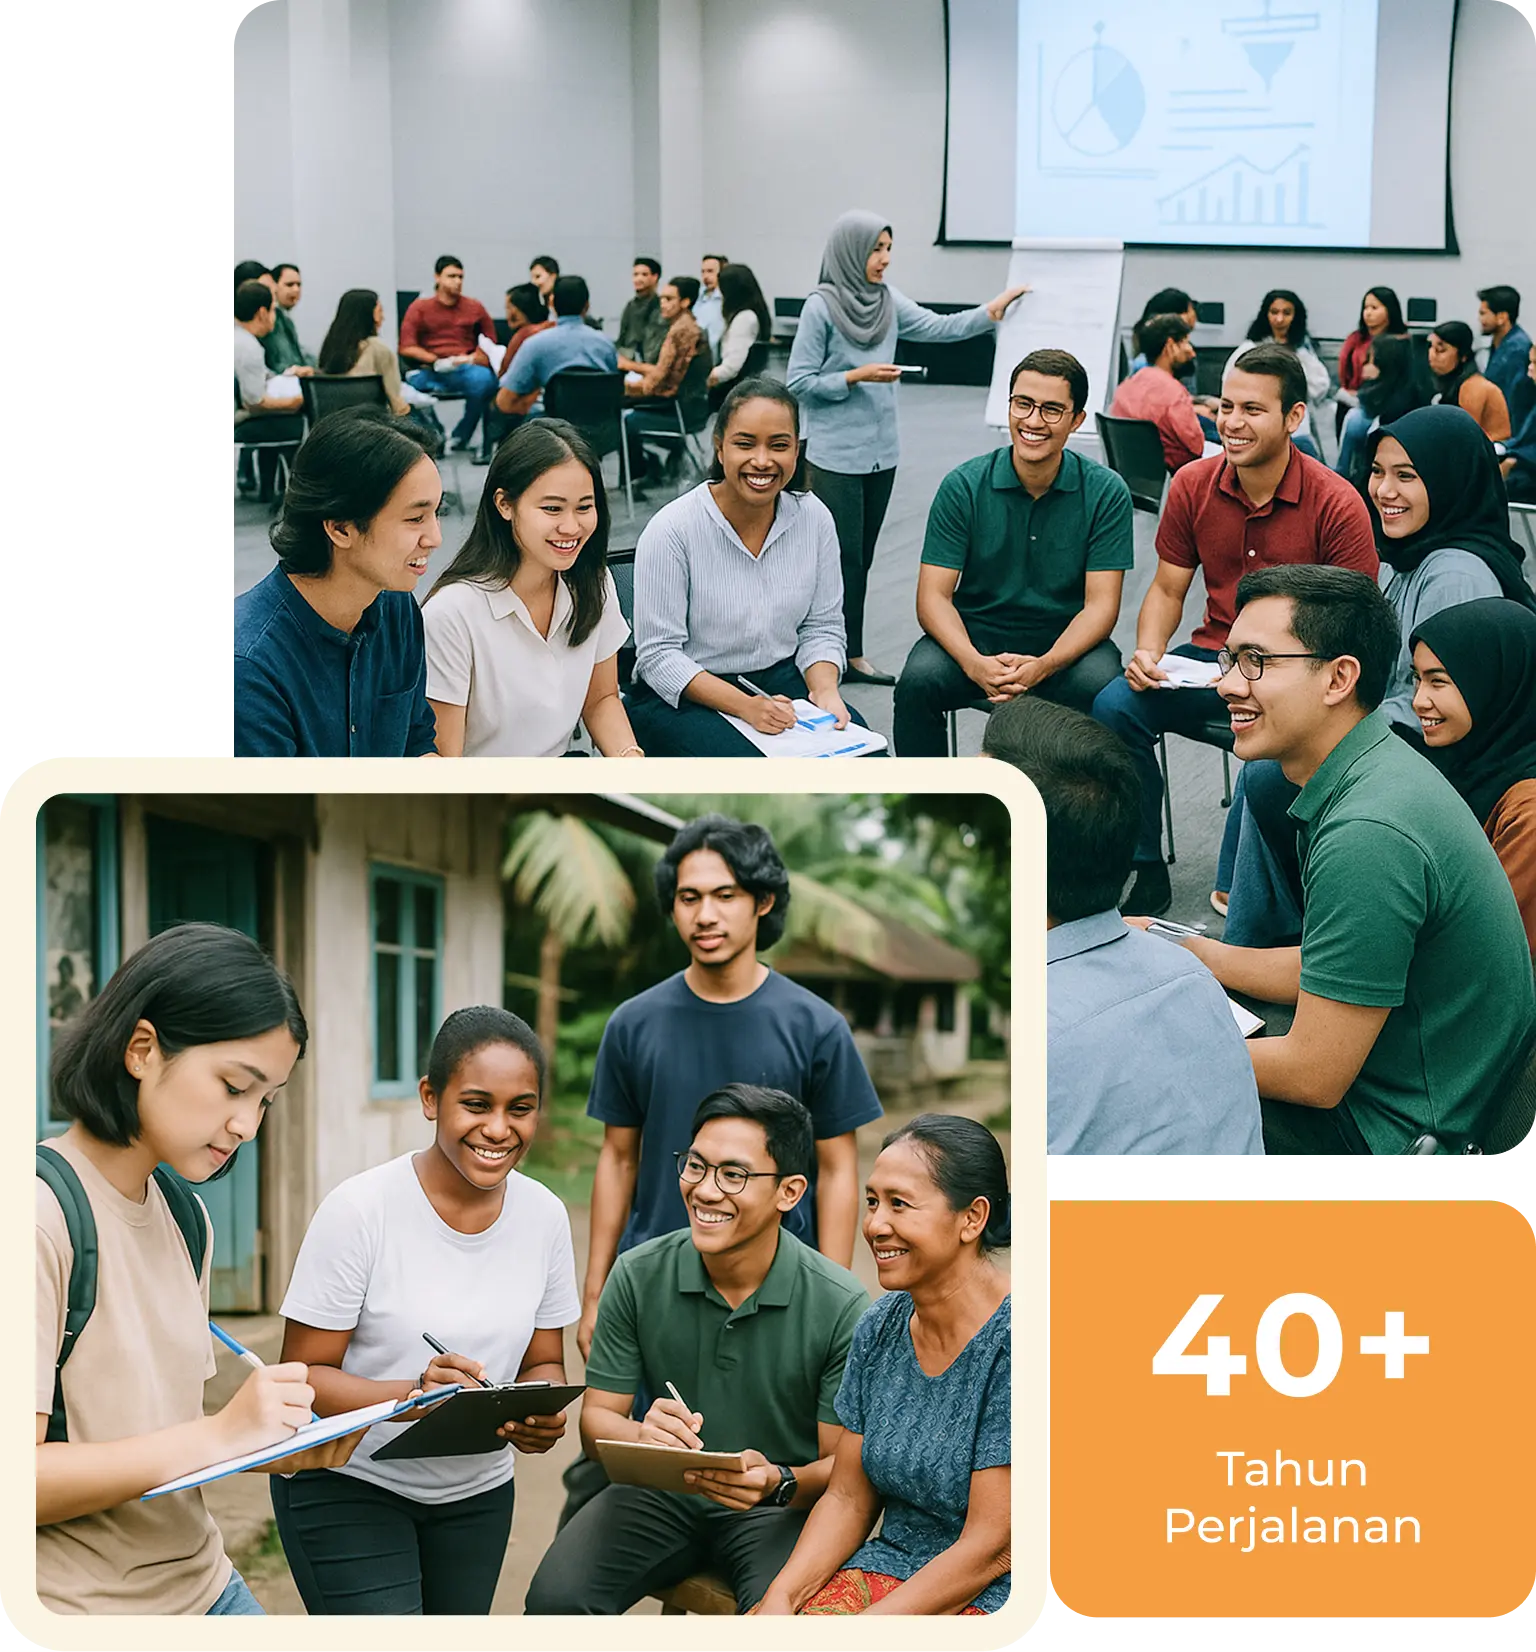
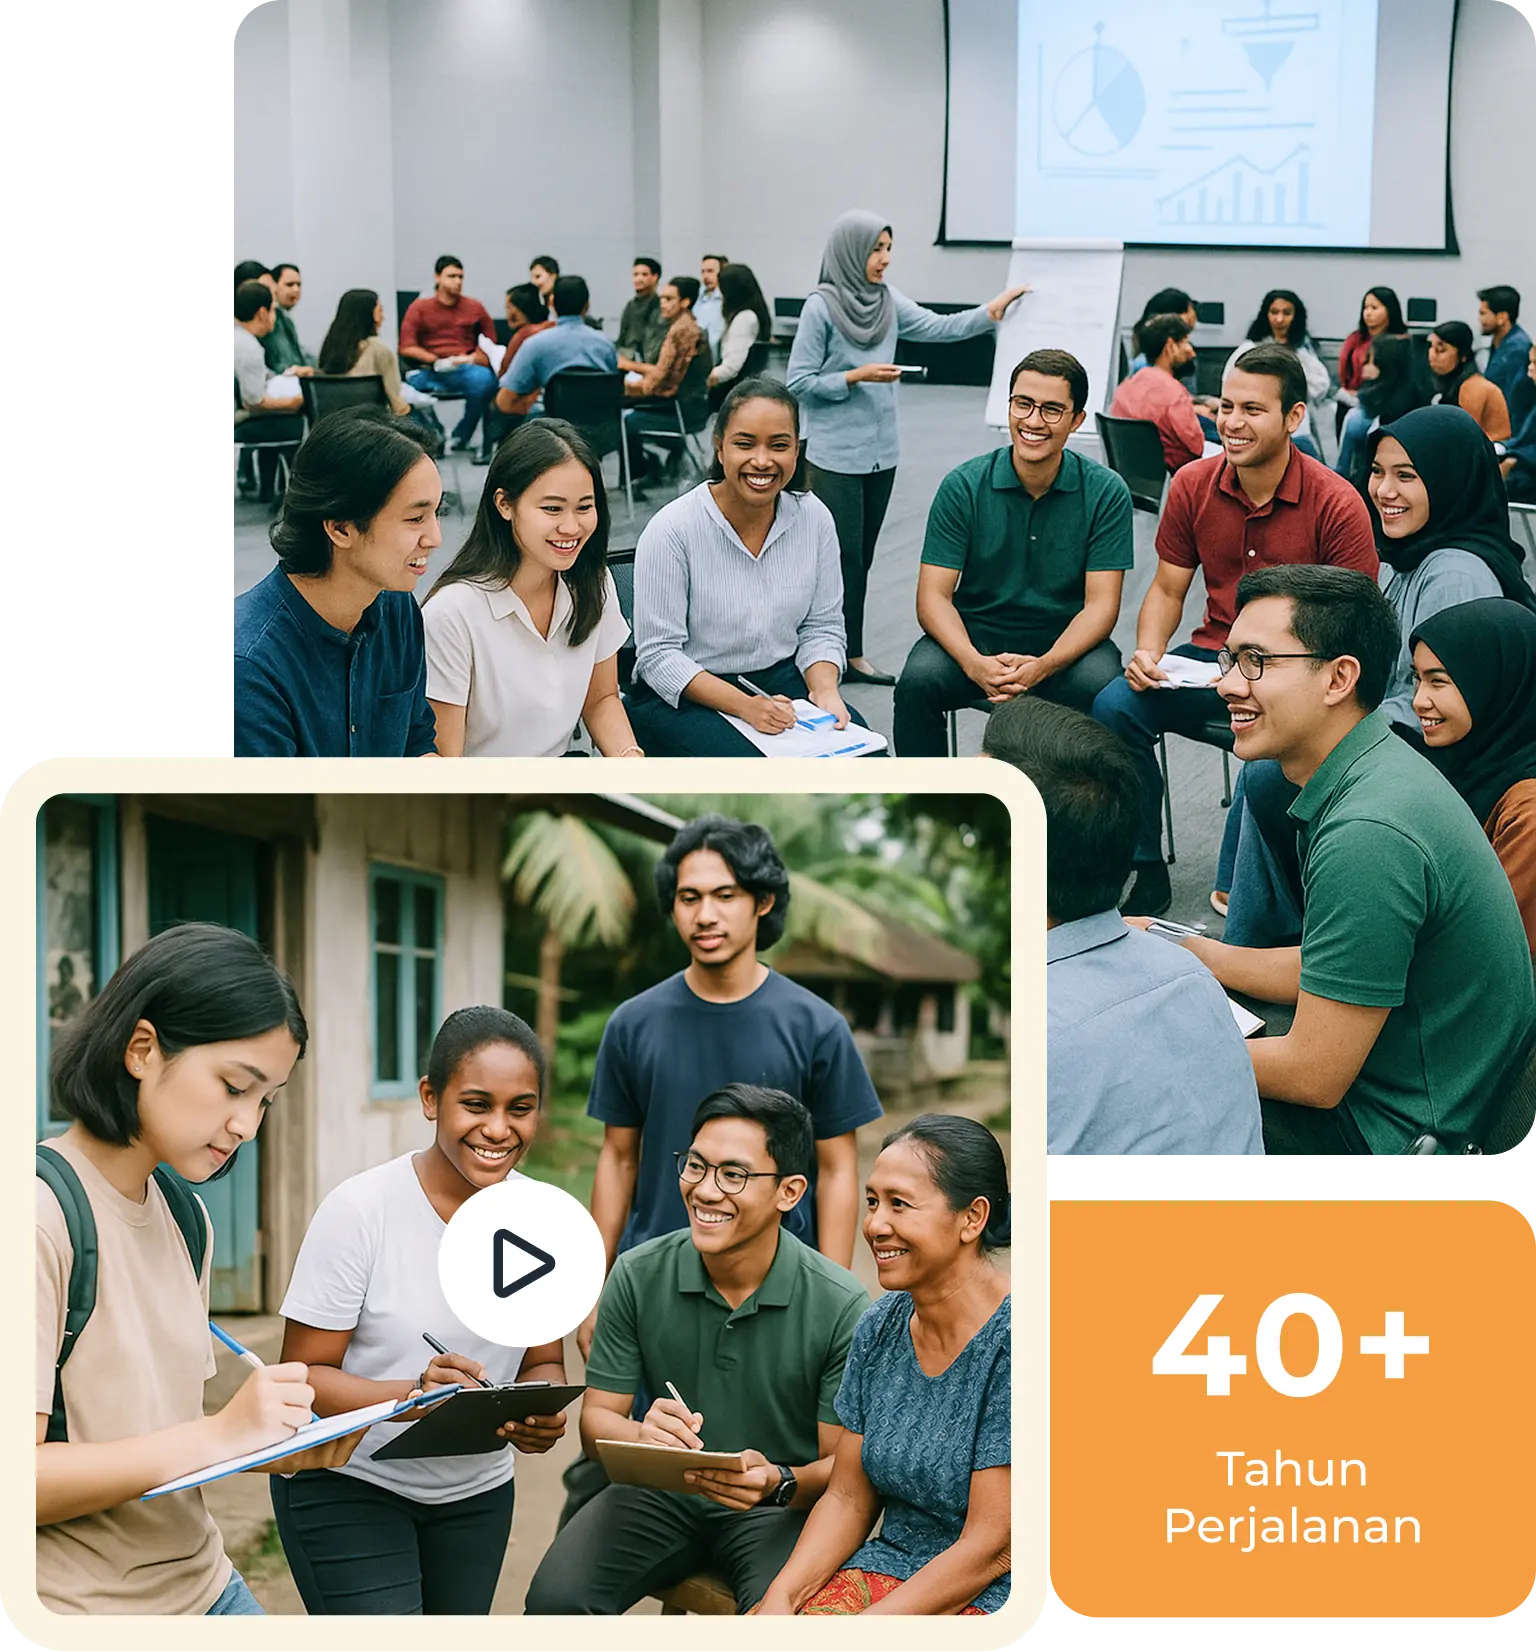
feat: adjustment feature coloring, layouting timeline, accessbility, video player

Changed region(s): [[0.2812, 0.71, 0.4062, 0.8335]]

diff --git a/src/app/[locale]/(routes)/about/profile-infid/_components/history-infid-section.tsx b/src/app/[locale]/(routes)/about/profile-infid/_components/history-infid-section.tsx
@@ -4,7 +4,6 @@ import { useState } from 'react';
 
 import Image from 'next/image';
 
-import SectionBadge from '@/components/common/section-badge';
 import { SectionHeader } from '@/components/common/section-header';
 import { Dialog, DialogContent, DialogHeader, DialogTitle } from '@/components/ui/dialog';
 import { cn } from '@/lib/utils';
@@ -19,7 +18,7 @@ export interface TimelineItem {
     year: string;
     title: string;
     description: string;
-    image?: string;
+    image?: string[];
     customClass?: string;
     active: boolean;
     isFounder?: boolean;
@@ -42,7 +41,7 @@ const timelineData: TimelineItem[] = [
         title: '',
         description:
             '<p><strong>Kerja keras INFID bersama berbagai elemen masyarakat dalam mendorong pengesahan Undang-Undang Tindak Pidana Kekerasan Seksual (UU TPKS) berujung pada pengesahan UU tersebut tahun 2022. INFID memproduksi lima dokumen penguat advokasi, yaitu satu kertas kebijakan, dua briefing paper, satu kertas posisi, dan satu rekomendasi kebijakan. Upaya INFID dalam tidak berhenti sampai pengesahan, advokasi terus berlanjut untuk memastikan implementasi UU TPKS sesuai dengan mandat yang tertuang dalam UU.</strong><br><br>Selain itu, dalam G20 Indonesia 2022, INFID ditunjuk sebagai Chair of Civil 20 (C20) untuk bergerak bersama ratusan civil society organisations (CSOs) dari seluruh dunia untuk mendesak pemimpin negara G20 menciptakan solusi atas tujuh isu; tujuan pembangunan berkelanjutan &amp; kemanusiaan; akses vaksin &amp; kesehatan global; kesetaraan gender &amp; disabilitas; perpajakan &amp; keuangan berkelanjutan; lingkungan, lingkungan, keadilan iklim, dan transisi energi; edukasi, digitalisasi, dan civic space; antikorupsi.<br><br>INFID akan terus bergerak untuk mewujudkan pembangunan yang berkeadilan di Indonesia dan mengambil peran dalam mendorong diskursus-diskursus perdamaian di tingkat global.</p>',
-        image: '/images/history-2019.webp',
+        image: ['/images/history-2019-1.webp', '/images/history-2019-2.webp'],
         customClass: 'w-[800px]',
         active: true
     },
@@ -52,7 +51,7 @@ const timelineData: TimelineItem[] = [
         title: '',
         description:
             '<p><strong>Pada 2015, agenda MDGs dilanjutkan menjadi agenda SDGs (Sustainable Development Goals) untuk periode 2015&ndash;2030. SDGs memiliki 17 Tujuan dan 169 Indikator yang harus dicapai pada 2030. Seperti MDGs, INFID juga turut berperan aktif untuk mendorong pencapaian tujuan dan indikator SDGs, di antaranya melalui penyusunan kerangka regulasi Perpres SDGs No. 59 Tahun 2017 dan penyusunan kerangka kelembagaan, yaitu tim pelaksana dan pokja nasional.</strong><br><br>Selain itu, INFID juga mendampingi 10 Kabupaten Kota dalam pelaksanaan SDGs di tingkat daerah dengan tujuan memberikan praktik baik implementasi SDGs yang akan memberi inspirasi bagi daerah lainnya untuk turut melaksanakan pencapaian SDGs di tahun 2030.</p>',
-        image: '/images/history-2016.webp',
+        image: ['/images/history-2016.webp'],
         customClass: 'w-[336px]',
         active: false
     },
@@ -62,7 +61,7 @@ const timelineData: TimelineItem[] = [
         title: '',
         description:
             '<p><strong>INFID tercatat sebagai aktor utama dalam memperbaiki relasi yang lebih setara antara donor dan penerima. Pembubaran forum donor untuk Indonesia Consultative Group on Indonesia (CGI) tahun 2007 merupakan perubahan besar bagi Indonesia dan lembaga donor. Lembaga donor juga mengakui bahwa mereka selalu dipantau dan diawasi oleh INFID untuk membuat mereka lebih terbuka, transparan, dan jujur dengan peranan mereka.</strong><br><br>INFID secara konsisten menyesuaikan agendanya dengan perubahan situasi, mulai dari reposisi peran LSM/OMS, hingga isu-isu seperti pembiayaan untuk pembangunan, kebijakan perdagangan yang adil, Tujuan Pembangunan Milenium (Millennium Development Goals/MDGs), dan Tujuan Pembangunan Berkelanjutan (Sustainable Development Goals/SDGs).</p>',
-        image: '/images/history-2005.webp',
+        image: ['/images/history-2005-1.png', '/images/history-2005-2.png'],
         customClass: 'w-[800px]',
         active: false
     },
@@ -72,7 +71,7 @@ const timelineData: TimelineItem[] = [
         title: '',
         description:
             '<p><strong>Konferensi tematik dua tahunan INFID (1998&ndash;2004) telah mengubah kebijakan dan praktik lembaga donor dan lembaga keuangan internasional (Bank Dunia). Salah satu konferensi mengangkat tema mengenai data kebocoran 30 persen dalam dana utang luar negeri dari pinjaman Bank Dunia untuk berbagai proyek di Indonesia.</strong><br><br>Salah satu advokasi lantang INFID terkait utang dan krisis 1998 bertajuk &ldquo;Debt Kills Indonesian Babies&rdquo;. Advokasi ini berhasil menciptakan riak-riak gerakan di tengah masyarakat setelah ketajaman INFID dalam memberikan edukasi publik mengenai bagaimana setiap individu rakyat Indonesia berpotensi menanggung beban utang Pemerintah.<br><br>Akibat sikap penentangan yang kuat dari INGI/INFID terhadap pemerintah Indonesia, selama bertahun-tahun INGI/INFID tidak dapat menyelenggarakan pertemuan di dalam negeri. Pada 1999, INFID mengadakan konferensi pertamanya di Bali, yang menandai perubahan penting dalam struktur dan tata kelola organisasi.</p>',
-        image: '/images/history-1998.webp',
+        image: ['/images/history-1998-1.png', '/images/history-1998-2.png'],
         customClass: 'w-[800px]',
 
         active: false
@@ -83,8 +82,7 @@ const timelineData: TimelineItem[] = [
         title: '',
         description:
             '<p><strong>INFID telah berperan penting dalam mewujudkan proses demokratisasi di Indonesia sejak Indonesia tunduk pada sistem otoriter di bawah rezim Orde Baru.&nbsp;</strong><br><strong>Para reformis seperti Abdurrahman Wahid (Gus Dur), Adnan Buyung Nasution, Toeti Heraty Nurhadi, dan Fauzi Abdullah, bersama sejumlah Lembaga Swadaya Masyarakat (LSM), bersatu dan bergabung. Mereka mendirikan International NGO Forum on Indonesia (INGI) pada 1985 dan bekerja erat dengan organisasi masyarakat sipil dari negara-negara donor Indonesia.</strong><br><br>INGI memiliki sekretariat pertamanya di Den Haag, Belanda, dan di Jakarta, Indonesia. INGI dibentuk sebagai wadah baru untuk advokasi strategis yang bertujuan mendorong pemerintah Indonesia agar memanfaatkan bantuan luar negeri untuk pembangunan yang adil dan berkelanjutan, dengan menghormati sepenuhnya hak asasi manusia.</p>',
-        image: '/images/history-1985.webp',
-        customClass: 'w-[800px]',
+        image: ['/images/history-1985-1.png', '/images/history-1985-2.png'],
         active: false
     },
     {
@@ -168,15 +166,7 @@ export const InfidTimeline = () => {
     };
 
     return (
-        <div className='bg-secondary-100 relative py-24' id='history-infid'>
-            <Image
-                src='/images/decoration-about.png'
-                alt='images'
-                width={150}
-                height={150}
-                className='absolute right-10 bottom-50 hidden -rotate-95 xl:block'
-            />
-
+        <div className='from-secondary-100 min-h-screen bg-linear-to-b to-transparent pt-24' id='history-infid'>
             <div className='container'>
                 {/* Header */}
                 <SectionHeader
@@ -233,20 +223,30 @@ export const InfidTimeline = () => {
 
                 {contentType === 'timeline' && (
                     // Timeline Detail
-                    <div className='max-w-full xl:max-w-3xl'>
+                    <div className='max-w-full xl:max-w-4xl'>
                         <h2 className='text-primary-500 mb-6 text-2xl font-bold'>
                             {selectedTimeline.year} {selectedTimeline.title}
                         </h2>
-                        <div className='prose' dangerouslySetInnerHTML={{ __html: selectedTimeline.description }} />
-                        {selectedTimeline.image && (
-                            <Image
-                                src={selectedTimeline.image}
-                                alt={selectedTimeline.title}
-                                width={500}
-                                height={500}
-                                className={cn('mt-12', selectedTimeline.customClass)}
+                        <div className='flex flex-col items-start gap-8 md:flex-row'>
+                            {selectedTimeline.image && (
+                                <div className='flex w-full flex-col gap-2 md:w-1/3'>
+                                    {selectedTimeline.image.map((image, index) => (
+                                        <Image
+                                            key={index}
+                                            src={image}
+                                            alt={selectedTimeline.title}
+                                            width={500}
+                                            height={500}
+                                            className={cn('max-h-90 w-full object-cover', selectedTimeline.customClass)}
+                                        />
+                                    ))}
+                                </div>
+                            )}
+                            <div
+                                className='prose w-full md:w-3/4'
+                                dangerouslySetInnerHTML={{ __html: selectedTimeline.description }}
                             />
-                        )}
+                        </div>
                     </div>
                 )}
 
@@ -294,6 +294,14 @@ export const InfidTimeline = () => {
                     </DialogContent>
                 </Dialog>
             </div>
+            <div
+                className='from-secondary-100 relative mt-12 h-115.5 bg-linear-to-t to-transparent'
+                style={{
+                    backgroundImage: `url('/images/bg-garden.webp'), linear-gradient(180deg, #FAF5E3 0%, rgba(250, 245, 227, 0) 100%)`,
+                    backgroundBlendMode: 'overlay',
+                    backgroundSize: 'cover',
+                    backgroundPosition: 'center'
+                }}></div>
         </div>
     );
 };

diff --git a/src/app/[locale]/(routes)/about/profile-infid/_components/global-recognition-section.tsx b/src/app/[locale]/(routes)/about/profile-infid/_components/global-recognition-section.tsx
@@ -8,21 +8,21 @@ export default function GlobalRecognitionSection() {
     const accordionData = [
         {
             id: '01',
-            title: 'Terakreditasi oleh Perserikatan Bangsa-Bangsa (PBB) dengan UN Special Consultative Status with the Economic and Social Council (ECOSOC).',
+            title: 'Terakreditasi oleh Perserikatan Bangsa-Bangsa (PBB) dengan UN Special Consultative Status with the Economic and Social Council (ECOSOC)',
             content:
                 'Menyandang status ini sejak 2004, INFID memiliki akses untuk terlibat dalam berbagai konferensi internasional yang diselenggarakan oleh PBB, seperti High Level Political Forum untuk membahas agenda pembangunan berkelanjutan yang diadakan setiap bulan Juli, serta Sidang Umum setiap bulan September.',
             defaultOpen: true
         },
         {
             id: '02',
-            title: 'Anggota aktif sejumlah forum organisasi masyarakat sipil global.',
+            title: 'Anggota aktif sejumlah forum organisasi masyarakat sipil global',
             content:
                 'INFID merupakan anggota aktif di FORUS sejak 2009, sebuah jaringan NGO global yang mewadahi forum-forum NGO nasional di seluruh dunia yang berbasis di Paris, Prancis. INFID juga bagian dari Beyond 2015, TAP Network, dan SDSN, yaitu inisiatif-inisiatif global yang bertujuan untuk mendorong pelaksanaan dan pencapaian Sustainable Development Goals (SDGs) pada 2022.',
             defaultOpen: false
         },
         {
             id: '03',
-            title: 'Memimpin berbagai advokasi global.',
+            title: 'Memimpin berbagai advokasi global',
             content:
                 'INFID berperan dalam mengawal pembangunan di daerah-daerah di Indonesia dengan memberikan masukan-masukan strategis, serta berkolaborasi bersama organisasi masyarakat sipil dunia untuk mengangkat agenda pembangunan berkeadilan ke tingkat global. INFID ditunjuk sebagai Envoy dan Steering Committee dalam Open Government Partnership (OGP Global) dalam agenda membangun pemerintahan terbuka. Pada 2022, INFID dipercaya menjadi Chair Civil20 (C20) dalam G20 Indonesia dan membangun solidaritas bersama ratusan civil society organisations (CSOs) global di forum G20.',
             defaultOpen: false

diff --git a/src/app/[locale]/(routes)/news-from-us/data/data.tsx b/src/app/[locale]/(routes)/news-from-us/data/data.tsx
@@ -25,7 +25,7 @@ export interface FeaturedNewsItem {
     comments: number;
 }
 
-export const categoriesNews = ['Semua', 'Kegiatan', 'Cerita Perubahan', 'Siaran Pers'];
+export const categoriesNews = ['Semua', 'Kegiatan', 'Bergerak, Berdampak!', 'Siaran Pers', 'Laporan Tahunan'];
 
 export const authorsNews = [
     { label: 'Samantha', value: 'samantha' },
@@ -47,7 +47,7 @@ export const articles: Article[] = [
     {
         id: 2,
         title: 'Kisah Sukses Petani Milenial di Era Smart Farming',
-        category: 'Cerita Perubahan',
+        category: 'Bergerak, Berdampak!',
         date: '2023-08-20',
         author: 'Joko',
         image: '/images/background-about-us.webp'
@@ -71,7 +71,7 @@ export const articles: Article[] = [
     {
         id: 5,
         title: 'Dari Desa ke Global: Perjalanan UMKM Kerajinan Tangan',
-        category: 'Cerita Perubahan',
+        category: 'Bergerak, Berdampak!',
         date: '2022-06-18',
         author: 'Kevin',
         image: '/images/background-about-us.webp'
@@ -95,7 +95,7 @@ export const articles: Article[] = [
     {
         id: 8,
         title: 'Transformasi Kumuh Menjadi Kampung Wisata Kreatif',
-        category: 'Cerita Perubahan',
+        category: 'Bergerak, Berdampak!',
         date: '2025-08-30',
         author: 'Rudi',
         image: '/images/background-about-us.webp'
@@ -119,7 +119,7 @@ export const articles: Article[] = [
     {
         id: 11,
         title: 'Perempuan Berdaya: Mengubah Paradigma di Dunia Teknologi',
-        category: 'Cerita Perubahan',
+        category: 'Bergerak, Berdampak!',
         date: '2024-12-01',
         author: 'Samantha',
         image: '/images/background-about-us.webp'
@@ -143,7 +143,7 @@ export const articles: Article[] = [
     {
         id: 14,
         title: 'Akses Air Bersih: Perubahan Hidup bagi Warga NTT',
-        category: 'Cerita Perubahan',
+        category: 'Bergerak, Berdampak!',
         date: '2023-02-25',
         author: 'Anita',
         image: '/images/background-about-us.webp'

diff --git a/src/app/[locale]/(routes)/(home)/_components/about-us-section.tsx b/src/app/[locale]/(routes)/(home)/_components/about-us-section.tsx
@@ -42,11 +42,7 @@ const AboutUsSection = () => {
                         <Dialog>
                             <DialogTrigger asChild>
                                 {/* Play Button */}
-                                <div className='group absolute bottom-13 left-18 z-0 cursor-pointer p-10 md:bottom-40 md:left-50 xl:bottom-27 xl:left-33'>
-                                    <div className='rounded-full bg-white/90 p-3 group-hover:shadow-lg'>
-                                        <Play />
-                                    </div>
-                                </div>
+                                <div className='group absolute bottom-10 left-10 z-0 h-50 w-50 cursor-pointer sm:bottom-15 sm:left-15 md:bottom-15 md:left-25 xl:bottom-15 xl:left-25'></div>
                             </DialogTrigger>
 
                             {/* Video Popup Modal */}

diff --git a/src/app/[locale]/(routes)/about/profile-infid/_components/visi-misi-section.tsx b/src/app/[locale]/(routes)/about/profile-infid/_components/visi-misi-section.tsx
@@ -1,3 +1,5 @@
+import Image from 'next/image';
+
 import SectionBadge from '@/components/common/section-badge';
 
 export default function VisiMisiInfidSection() {
@@ -22,10 +24,17 @@ export default function VisiMisiInfidSection() {
 
     return (
         <section
-            className='w-full bg-gray-50 bg-repeat py-24'
+            className='relative w-full bg-gray-50 bg-repeat py-24'
             style={{
                 backgroundImage: "url('/logo/bg-pattern-word.png')"
             }}>
+            <Image
+                src='/images/decoration-about.png'
+                alt='images'
+                width={150}
+                height={150}
+                className='absolute top-5 right-5 hidden -rotate-180 xl:block'
+            />
             <div className='container'>
                 {/* Header */}
                 <div className='mb-12'>

diff --git a/src/app/[locale]/(routes)/ClientLayout.tsx b/src/app/[locale]/(routes)/ClientLayout.tsx
@@ -14,6 +14,10 @@ export default function ClientLayout({ children }: { children: React.ReactNode }
                 size: '40px',
                 borderRadius: '100px',
                 iconSize: '40px'
+            },
+            colors: {
+                primary: '#F59D41',
+                secondary: '#ffffff'
             }
         };
 
